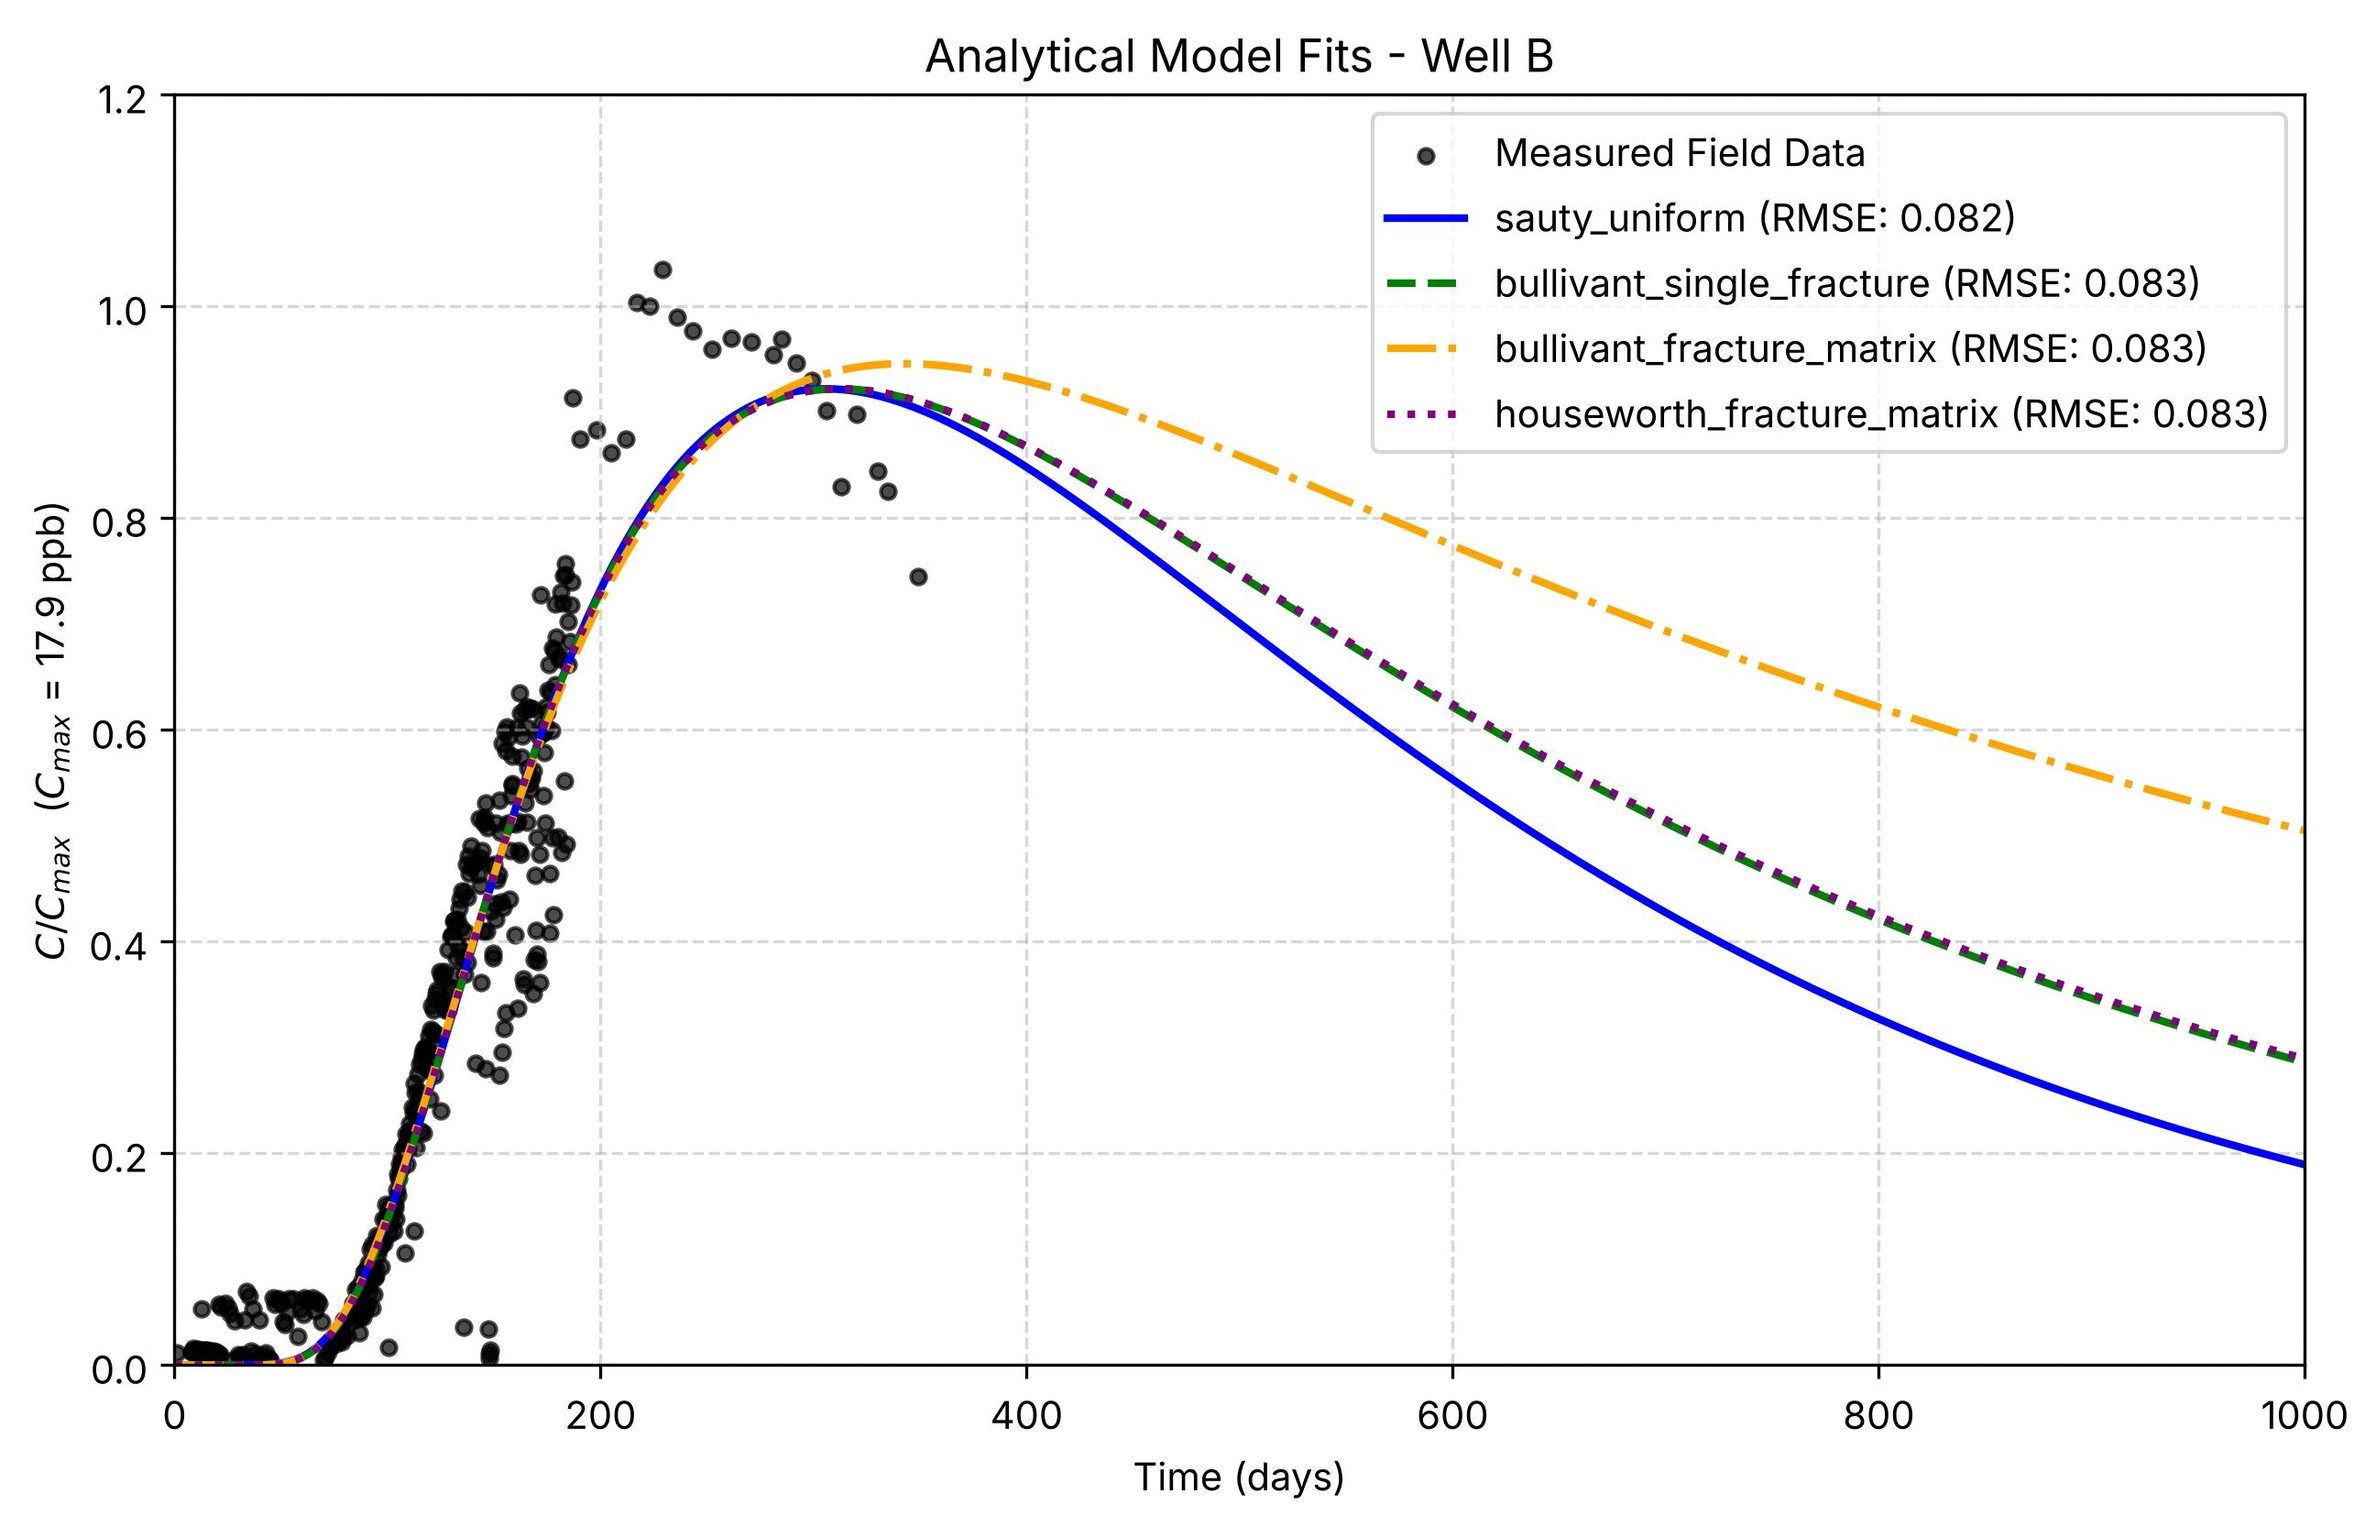
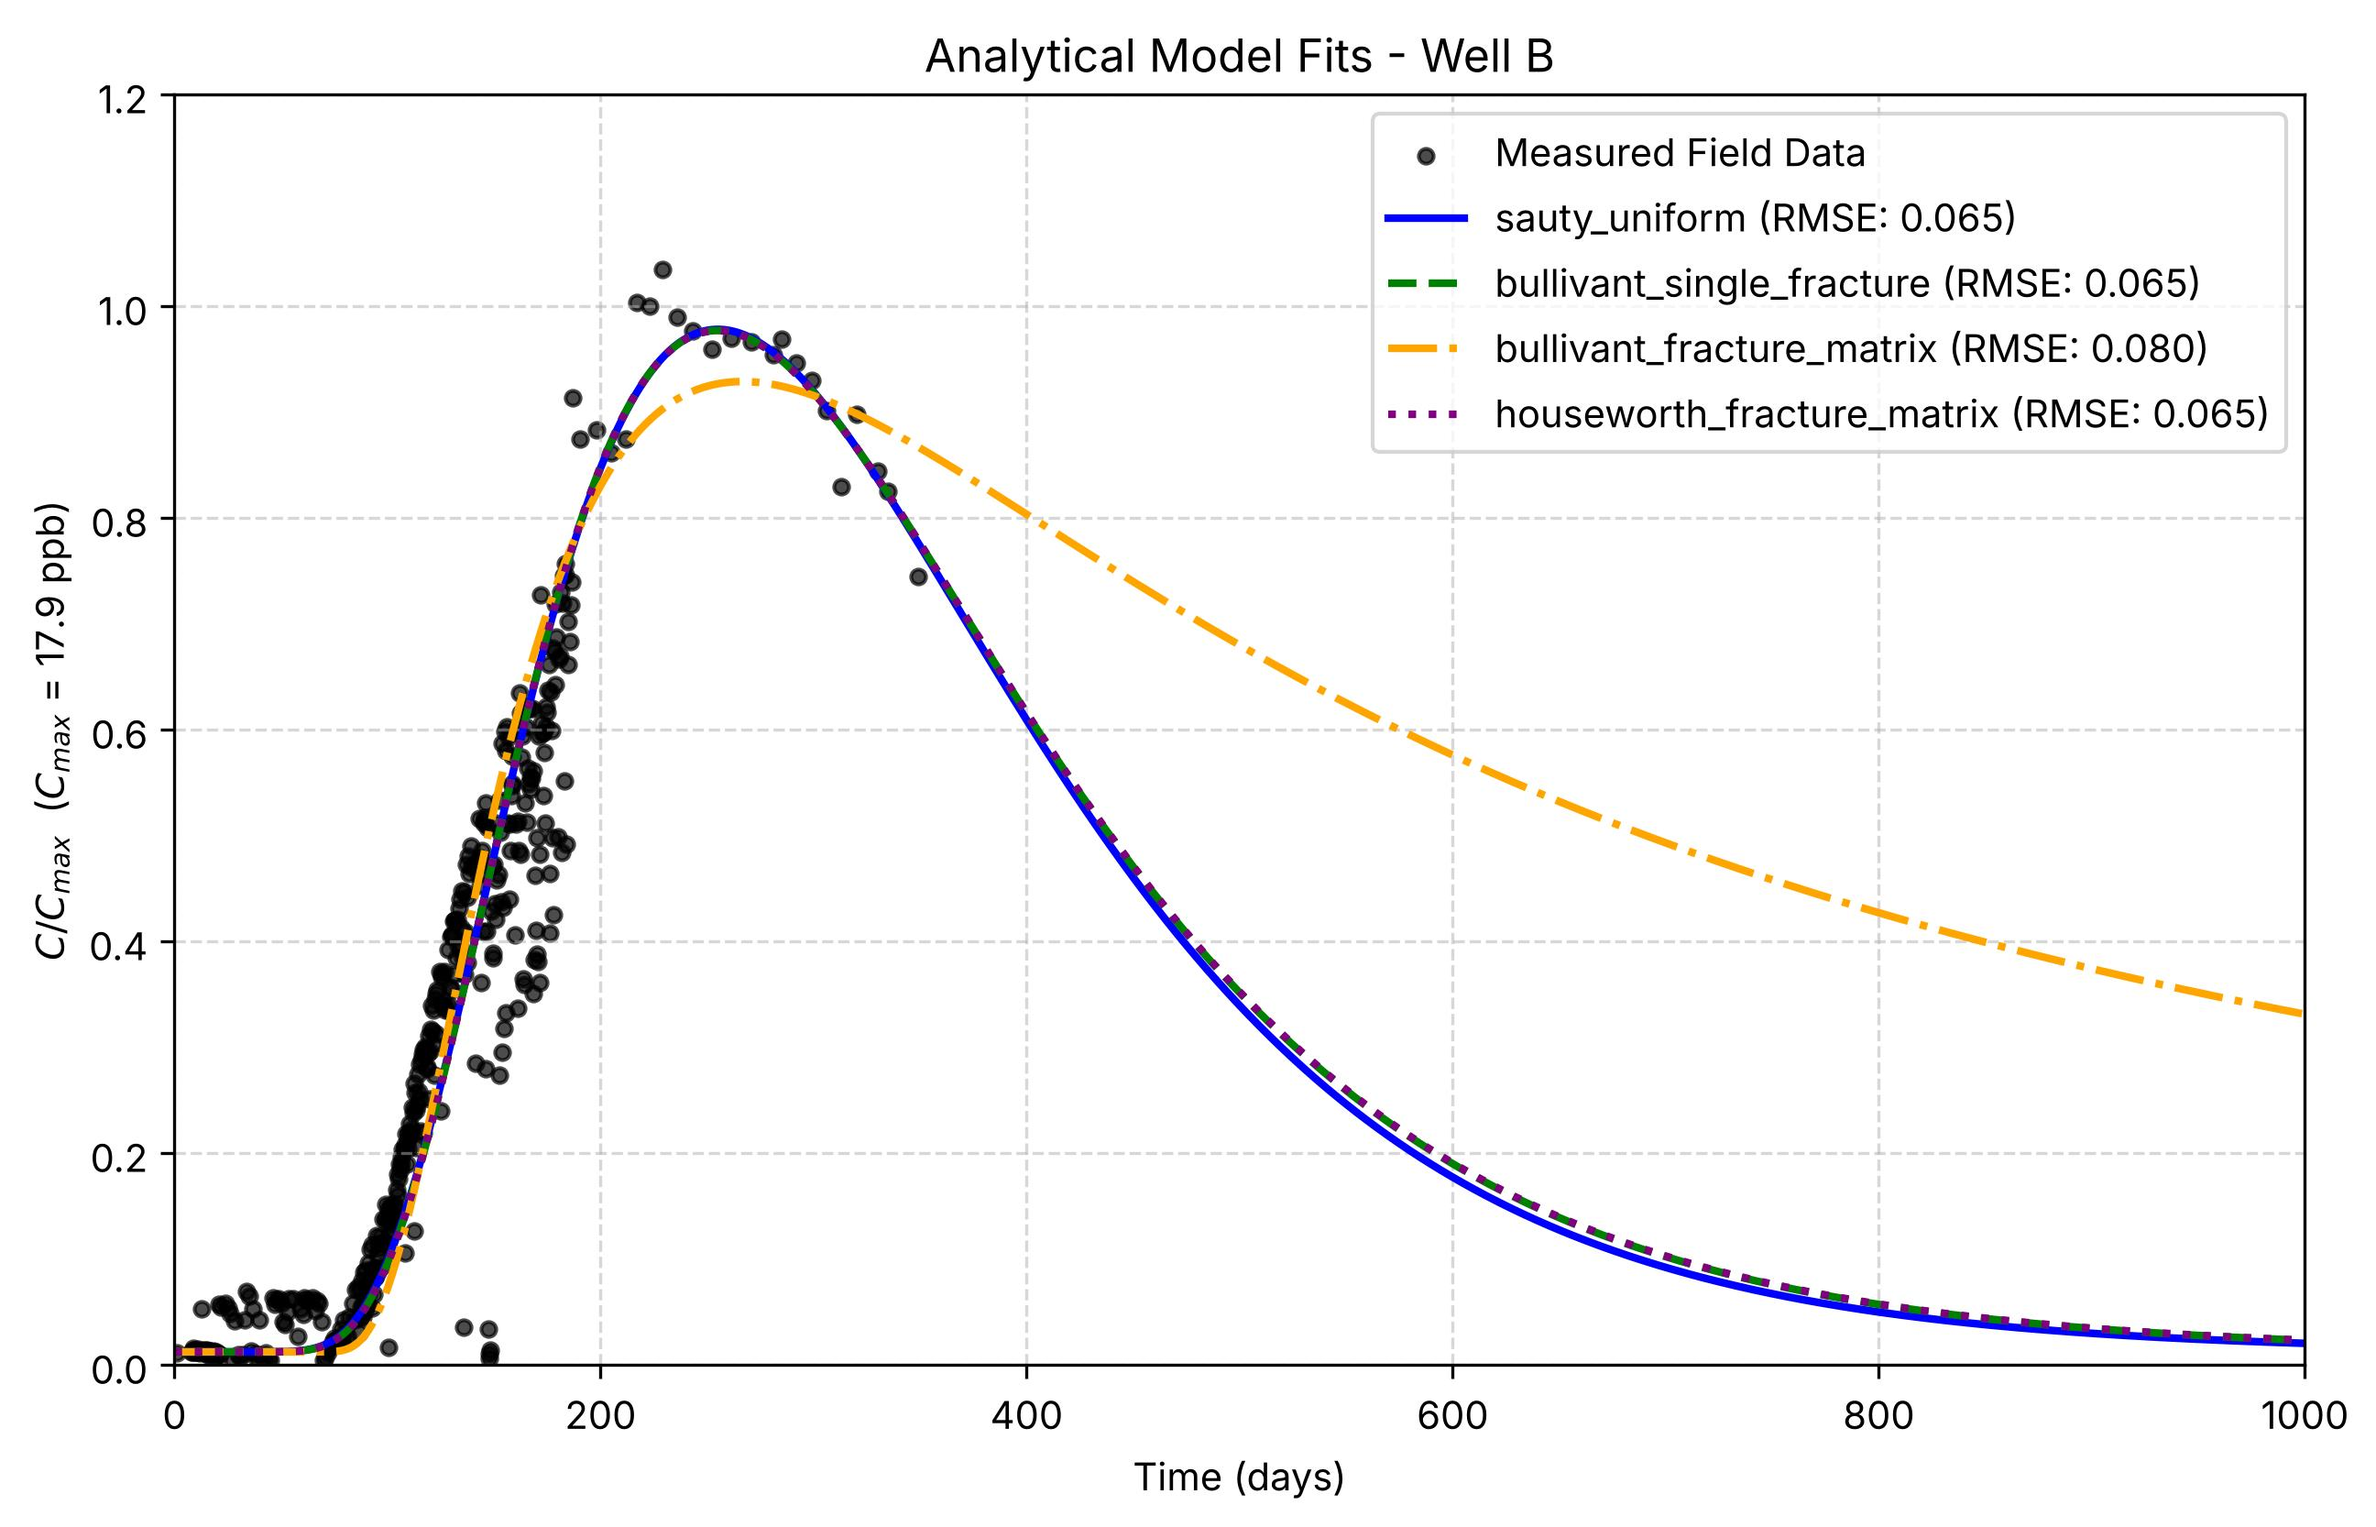
Weight fits by sampling interval and fit a background baseline
- Weight each reading by its sampling interval so densely sampled
  periods do not dominate (well B peak moves from ~306 d to ~255 d)
- Fit a constant background C_bg with every model, capped at the median
  of the earliest 10% of readings
- Report time-weighted RMSE, consistent with the fit
- Widen amplitude bounds; plot model curves via a predict() function

Claude-Session: https://claude.ai/code/session_012rciNb3RLQHPSk3zMHuk9z

diff --git a/tracer_model.py b/tracer_model.py
@@ -142,15 +142,37 @@ def robust_peak(t_obs, C_obs, window=5):
     return t_obs[i], smooth[i - window // 2]
 
 
-def fit_analytical_models(t_obs, C_obs):
-    """Fit every model to one well. Returns a list of result dicts.
+def sampling_weights(t_obs):
+    """Curve_fit sigma that makes every day of record count equally.
 
-    Parameters are fitted as log values: all are positive and span several
-    orders of magnitude. Amplitude guesses are scaled so the initial curve
+    Readings are much denser on some periods (e.g. 291 of well B's 398
+    readings fall between days 70 and 190). Weighting each reading by its
+    sampling interval stops dense periods from dominating the fit.
+    """
+    dt = np.gradient(t_obs) if len(t_obs) > 1 else np.ones_like(t_obs)
+    dt = np.maximum(dt, 1e-3 * np.median(dt))  # guard against repeated times
+    return 1 / np.sqrt(dt / np.mean(dt))
+
+
+def fit_analytical_models(t_obs, C_obs):
+    """Fit every model plus a constant background C_bg to one well.
+
+    Returns a list of result dicts. Model parameters are fitted as log
+    values (all are positive and span several orders of magnitude); C_bg is
+    fitted linearly, between 0 and the median of the earliest 10% of
+    readings, since the background cannot exceed what was measured before
+    the tracer arrived. Readings are weighted by their
+    sampling interval. Amplitude guesses are scaled so the initial curve
     passes through the observed peak.
     """
     t_peak, C_peak = robust_peak(t_obs, C_obs)
     t_max = np.max(t_obs)
+    sigma = sampling_weights(t_obs)
+
+    # Background: capped at the early (pre-arrival) level of the readings
+    n_early = max(5, len(C_obs) // 10)
+    C_bg_max = min(np.median(C_obs[:n_early]), C_peak)
+    C_bg0 = 0.5 * C_bg_max
 
     # Shape-parameter guesses consistent with a peak at t_peak
     t_m0 = 1.2 * t_peak
@@ -184,34 +206,44 @@ def fit_analytical_models(t_obs, C_obs):
     for name, (func, param_names, p0, lower, upper) in models_config.items():
         # Amplitude guess: make the initial curve pass through the peak
         shape_at_peak = func(np.array([t_peak]), *p0, 1.0)[0]
-        amp0 = C_peak / shape_at_peak if shape_at_peak > 0 else C_peak
+        amp0 = (C_peak - C_bg0) / shape_at_peak if shape_at_peak > 0 else C_peak
         p0 = p0 + [amp0]
-        lower = lower + [amp0 * 1e-4]
-        upper = upper + [amp0 * 1e4]
+        lower = lower + [amp0 * 1e-8]
+        upper = upper + [amp0 * 1e8]
 
-        def log_func(t, *log_p, func=func):
-            return func(t, *np.exp(log_p))
+        # Fitted vector: log of each model parameter, then C_bg (linear)
+        def fit_func(t, *q, func=func):
+            return func(t, *np.exp(q[:-1])) + q[-1]
 
-        log_lower, log_upper = np.log(lower), np.log(upper)
-        log_p0 = np.clip(np.log(p0), log_lower + 1e-6, log_upper - 1e-6)
-        log_popt, _ = curve_fit(
-            log_func, t_obs, C_obs, p0=log_p0,
-            bounds=(log_lower, log_upper), method="trf", maxfev=20000,
+        q_lower = np.append(np.log(lower), 0.0)
+        q_upper = np.append(np.log(upper), C_bg_max)
+        q0 = np.clip(np.append(np.log(p0), C_bg0), q_lower + 1e-6, q_upper - 1e-6)
+        q_opt, _ = curve_fit(
+            fit_func, t_obs, C_obs, p0=q0, sigma=sigma,
+            bounds=(q_lower, q_upper), method="trf", maxfev=20000,
         )
-        popt = np.exp(log_popt)
+        popt, C_bg = np.exp(q_opt[:-1]), q_opt[-1]
 
-        # Parameters within 0.1% of a bound are not really estimated
+        # Model parameters within 0.1% of a bound are not really estimated.
+        # C_bg = 0 is a valid result (no background); C_bg at its cap is flagged.
         at_bound = [
-            p for p, q, lo, hi in zip(param_names, log_popt, log_lower, log_upper)
+            p for p, q, lo, hi in zip(param_names, q_opt, q_lower, q_upper)
             if q - lo < 1e-3 or hi - q < 1e-3
         ]
+        if C_bg_max - q_opt[-1] < 1e-3 * C_bg_max:
+            at_bound.append("C_bg")
 
-        rmse = np.sqrt(np.mean((C_obs - func(t_obs, *popt)) ** 2))
+        def predict(t, func=func, popt=popt, C_bg=C_bg):
+            return func(t, *popt) + C_bg
+
+        # RMSE with the same sampling weights as the fit (a time average)
+        weights = 1 / sigma**2
+        rmse = np.sqrt(np.sum(weights * (C_obs - predict(t_obs)) ** 2) / np.sum(weights))
         results.append(
             {
                 "model": name,
-                "func": func,
-                "params": dict(zip(param_names, popt)),
+                "predict": predict,
+                "params": dict(zip(param_names, popt), C_bg=C_bg),
                 "rmse": rmse,
                 "at_bound": at_bound,
             }
@@ -220,7 +252,8 @@ def fit_analytical_models(t_obs, C_obs):
 
 
 def print_fit_summary(all_fits):
-    print("\nFit summary  (* = parameter stopped at a bound, not estimated)")
+    print("\nFit summary  (RMSE is time-weighted, in ppb; "
+          "* = parameter stopped at a bound, not estimated)")
     for fit in all_fits:
         params = ", ".join(
             f"{k}={v:.4g}{'*' if k in fit['at_bound'] else ''}"
@@ -336,7 +369,7 @@ def plot_fitted_curves(t_obs, C_obs, fits, well):
         color, linestyle = MODEL_STYLES[fit["model"]]
         plt.plot(
             t_smooth,
-            fit["func"](t_smooth, *fit["params"].values()) / C_max,
+            fit["predict"](t_smooth) / C_max,
             color=color,
             linestyle=linestyle,
             linewidth=2,
